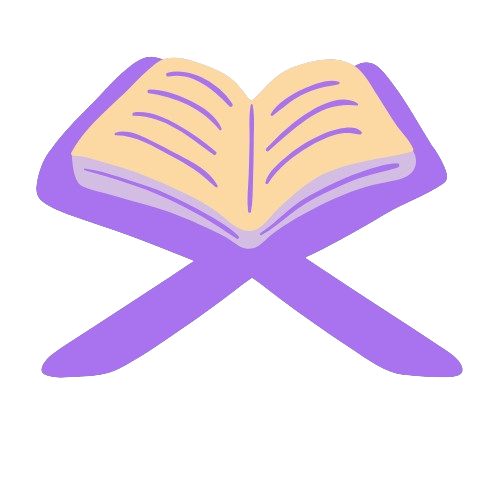
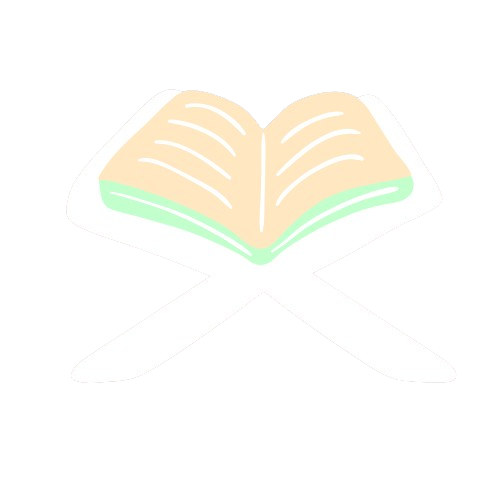
style new ui

diff --git a/lib/app/modules/home/views/home_view.dart b/lib/app/modules/home/views/home_view.dart
@@ -27,7 +27,7 @@ class HomeView extends GetView<HomeController> {
         ],
       ),
       body: DefaultTabController(
-        length: 3,
+        length: 2,
         child: Padding(
           padding: const EdgeInsets.all(20),
           child: Column(
@@ -45,8 +45,8 @@ class HomeView extends GetView<HomeController> {
                 decoration: BoxDecoration(
                   borderRadius: BorderRadius.circular(20),
                   gradient: LinearGradient(colors: [
-                    appLightPurple1,
-                    appDarkPurple,
+                    greenPrimary,
+                    Colors.teal[700]!,
                   ]),
                 ),
                 child: Material(
@@ -115,14 +115,11 @@ class HomeView extends GetView<HomeController> {
                 ),
               ),
               TabBar(
-                indicatorColor: appPurple,
-                labelColor: appPurple,
+                indicatorColor: greenPrimary,
+                labelColor: greenPrimary,
                 tabs: [
                   Tab(
                     text: "Surah",
-                  ),
-                  Tab(
-                    text: "Juz",
                   ),
                   Tab(
                     text: "Bookmark",
@@ -192,34 +189,6 @@ class HomeView extends GetView<HomeController> {
                         }
                       },
                     ),
-                    ListView.builder(
-                        itemCount: 30,
-                        itemBuilder: (context, index) {
-                          return ListTile(
-                            onTap: () {},
-                            leading: Container(
-                              height: 50,
-                              width: 50,
-                              decoration: BoxDecoration(
-                                image: DecorationImage(
-                                  image: AssetImage(
-                                    "assets/images/list.png",
-                                  ),
-                                ),
-                              ),
-                              child: Center(
-                                child: Text(
-                                  "${index + 1}",
-                                  style: Theme.of(context).textTheme.bodyLarge,
-                                ),
-                              ),
-                            ),
-                            title: Text(
-                              "Juz ${index + 1}",
-                              style: Theme.of(context).textTheme.bodyMedium,
-                            ),
-                          );
-                        }),
                     Center(
                       child: Text("Bookmark"),
                     ),
@@ -227,20 +196,6 @@ class HomeView extends GetView<HomeController> {
                 ),
               )
             ],
-          ),
-        ),
-      ),
-      floatingActionButton: FloatingActionButton(
-        onPressed: () {
-          Get.isDarkMode
-              ? Get.changeTheme(ThemeData.light())
-              : Get.changeTheme(ThemeData.dark());
-          controller.isDarkMode.toggle();
-        },
-        child: Obx(
-          () => Icon(
-            Icons.add,
-            color: controller.isDarkMode.isTrue ? appWhite : appPurple,
           ),
         ),
       ),

diff --git a/lib/app/constant/color.dart b/lib/app/constant/color.dart
@@ -1,6 +1,6 @@
 import 'package:flutter/material.dart';
 
-const appPurple = Color(0xFF6F35A5);
+const greenPrimary = Color(0xFF13A795);
 const appWhite = Color(0xFFFAF8FC);
 const appLightPurple1 = Color(0xFF9345F2);
 const appLightGrey = Color(0xFFB9A2D8);
@@ -9,38 +9,18 @@ const appOrange = Color(0xFFE6704A);
 const appDarkPurple = Color(0xFF010313);
 
 ThemeData appLight = ThemeData(
-    primaryColor: appPurple,
+    primaryColor: greenPrimary,
     scaffoldBackgroundColor: appWhite,
     appBarTheme: AppBarTheme(
-      backgroundColor: appPurple,
+      backgroundColor: greenPrimary,
       foregroundColor: appWhite,
     ),
     textTheme: TextTheme(
-      bodyLarge: TextStyle(color: appPurple),
-      headlineLarge: TextStyle(color: appPurple),
-      bodyMedium: TextStyle(color: Colors.grey[500]),
+      bodyLarge: TextStyle(color: Colors.black),
+      headlineLarge: TextStyle(color: Colors.black),
+      bodyMedium: TextStyle(color: Colors.black),
     ),
     tabBarTheme: TabBarTheme(
-      labelColor: appPurple,
+      labelColor: greenPrimary,
       unselectedLabelColor: Colors.grey[500],
     ));
-
-ThemeData appDark = ThemeData(
-  primaryColor: appWhite,
-  scaffoldBackgroundColor: appDarkPurple,
-  appBarTheme: AppBarTheme(
-    backgroundColor: appDarkPurple,
-    foregroundColor: appWhite,
-  ),
-  textTheme: TextTheme(
-    bodyLarge: TextStyle(color: appWhite),
-    headlineLarge: TextStyle(color: appWhite),
-    headlineSmall: TextStyle(color: Colors.grey[600]),
-    bodyMedium: TextStyle(color: appWhite),
-    bodySmall: TextStyle(color: Colors.grey[600]),
-  ),
-  tabBarTheme: TabBarTheme(
-    labelColor: appWhite,
-    unselectedLabelColor: Colors.grey[600],
-  ),
-);

diff --git a/lib/app/modules/detail_surah/views/detail_surah_view.dart b/lib/app/modules/detail_surah/views/detail_surah_view.dart
@@ -34,8 +34,8 @@ class DetailSurahView extends GetView<DetailSurahController> {
                 decoration: BoxDecoration(
                   borderRadius: BorderRadius.circular(20),
                   gradient: LinearGradient(colors: [
-                    appLightPurple1,
-                    appDarkPurple,
+                    greenPrimary,
+                    Colors.teal[700]!,
                   ]),
                 ),
                 child: Padding(

diff --git a/lib/main.dart b/lib/main.dart
@@ -9,7 +9,6 @@ void main() {
   runApp(
     GetMaterialApp(
       theme: appLight,
-      darkTheme: appDark,
       title: "Application",
       initialRoute: Routes.INTRODUCTION,
       // initialRoute: Routes.HOME,
